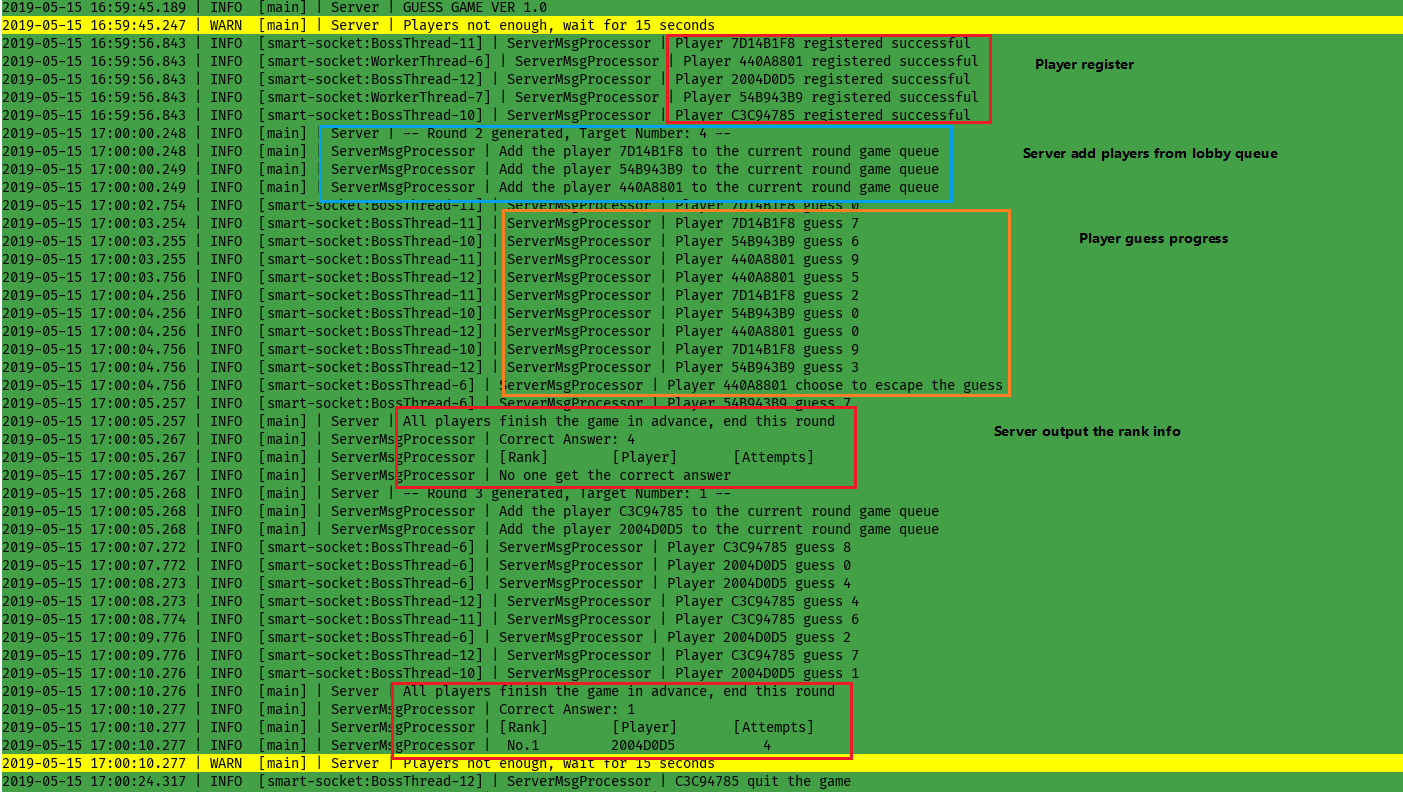
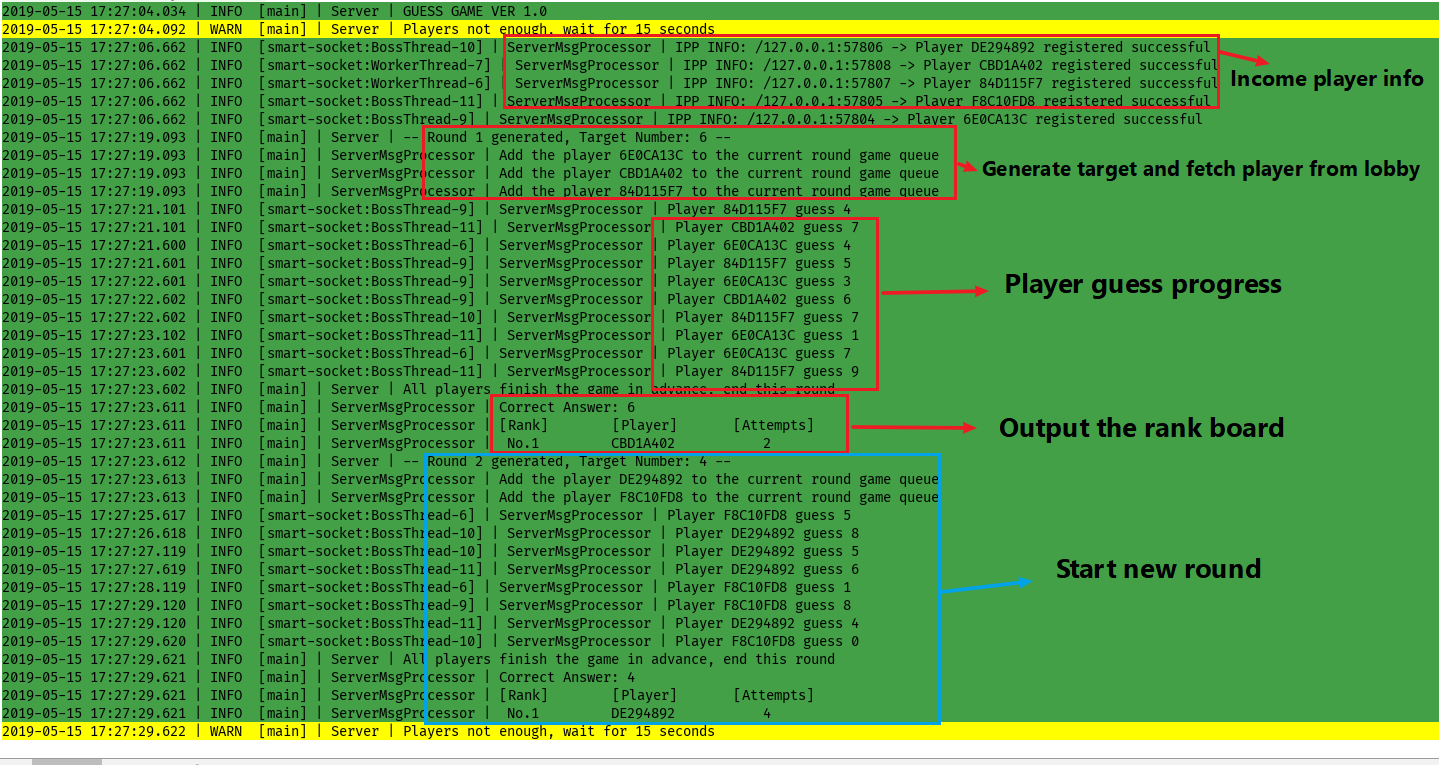
Update server running pic

diff --git a/Server/src/ServerMsgProcessor.java b/Server/src/ServerMsgProcessor.java
@@ -148,7 +148,12 @@ public class ServerMsgProcessor implements MessageProcessor<String>, Runnable {
                             " %d players ahead of you",
                     playerName, PENDING_QUEUE.size() - 1));
 
-            logger.info("Player {} registered successful", playerName);
+            try {
+                logger.info("IPP INFO: {} -> Player {} registered successful",
+                        session.getRemoteAddress(),
+                        playerName);
+            } catch (IOException ignored) {
+            }
         }
     }
 
